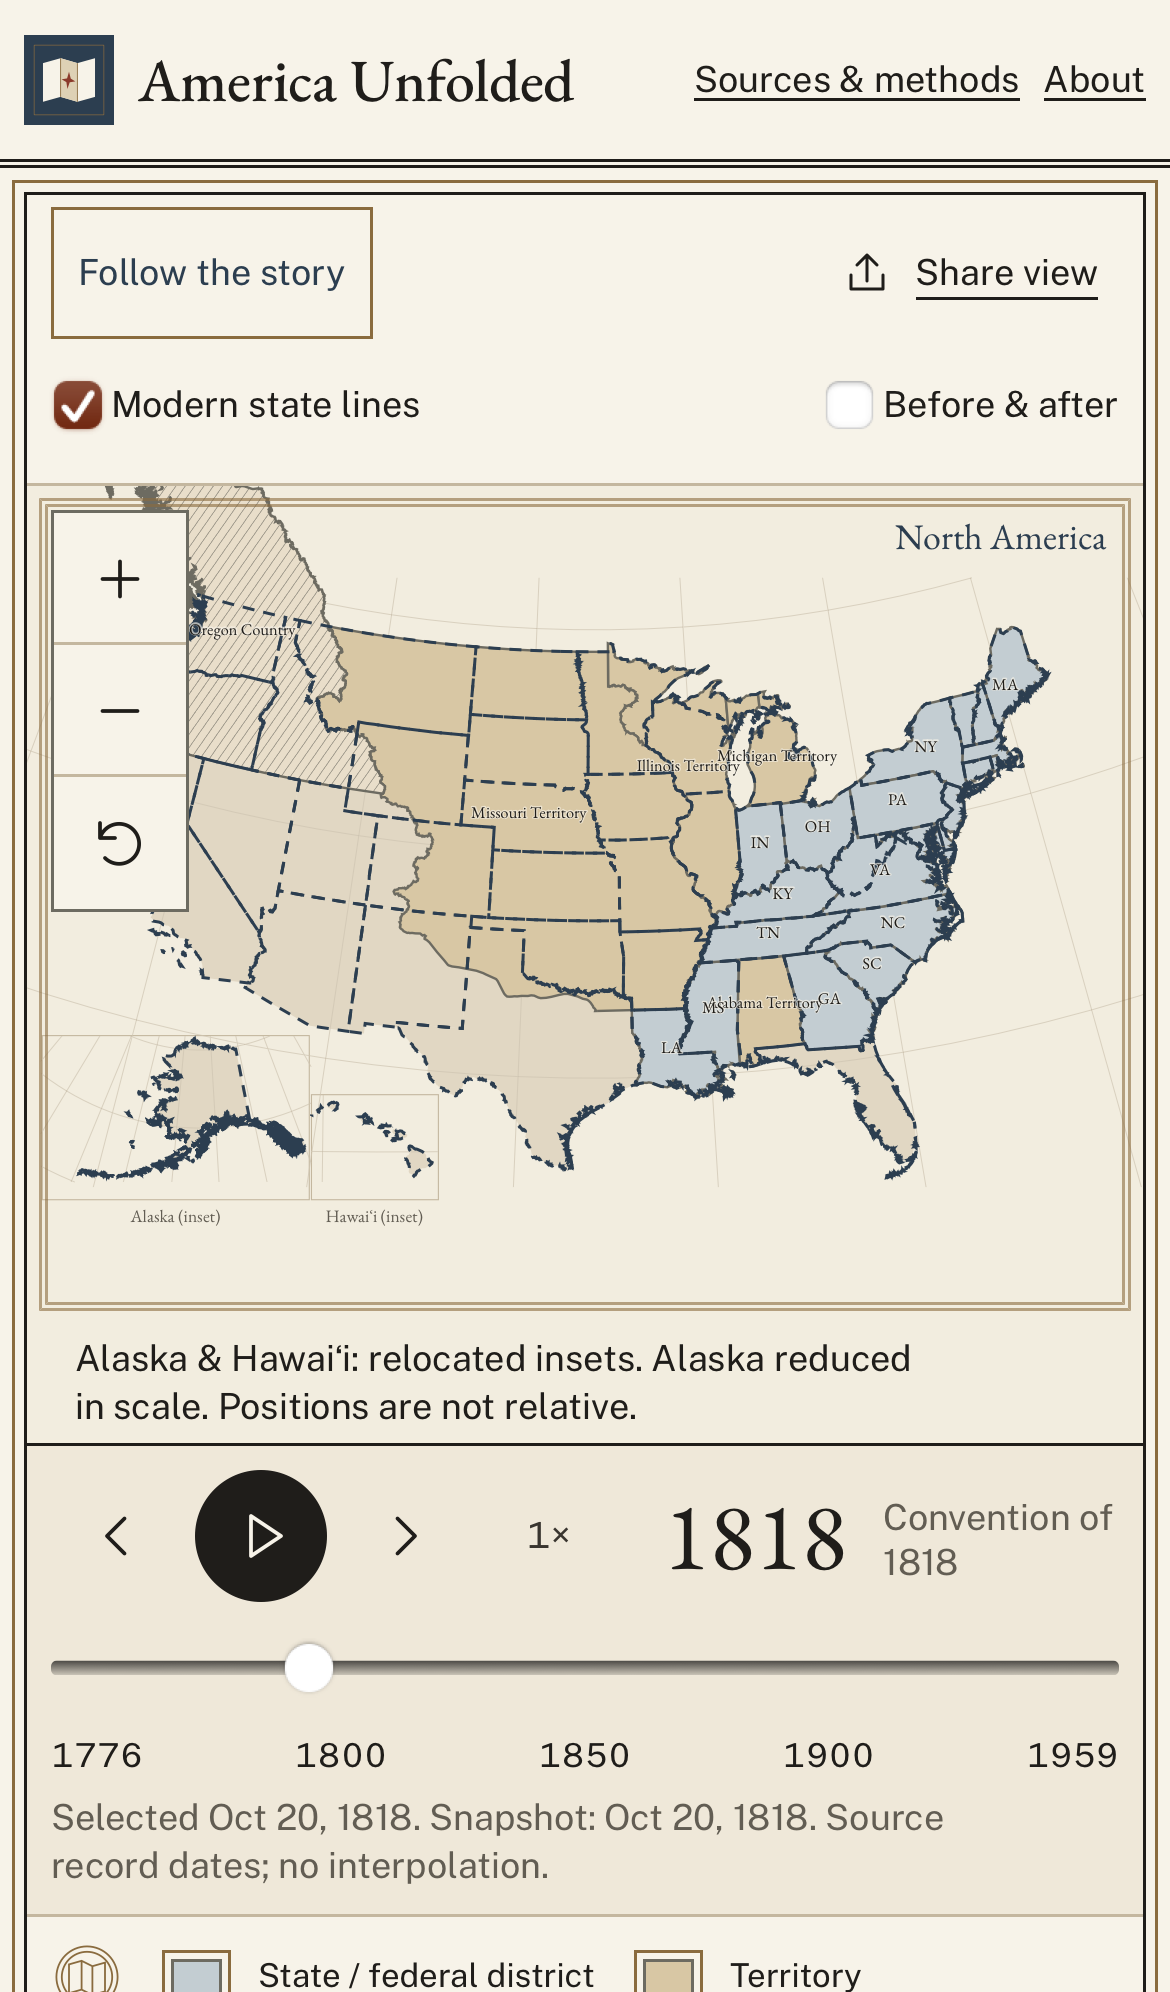
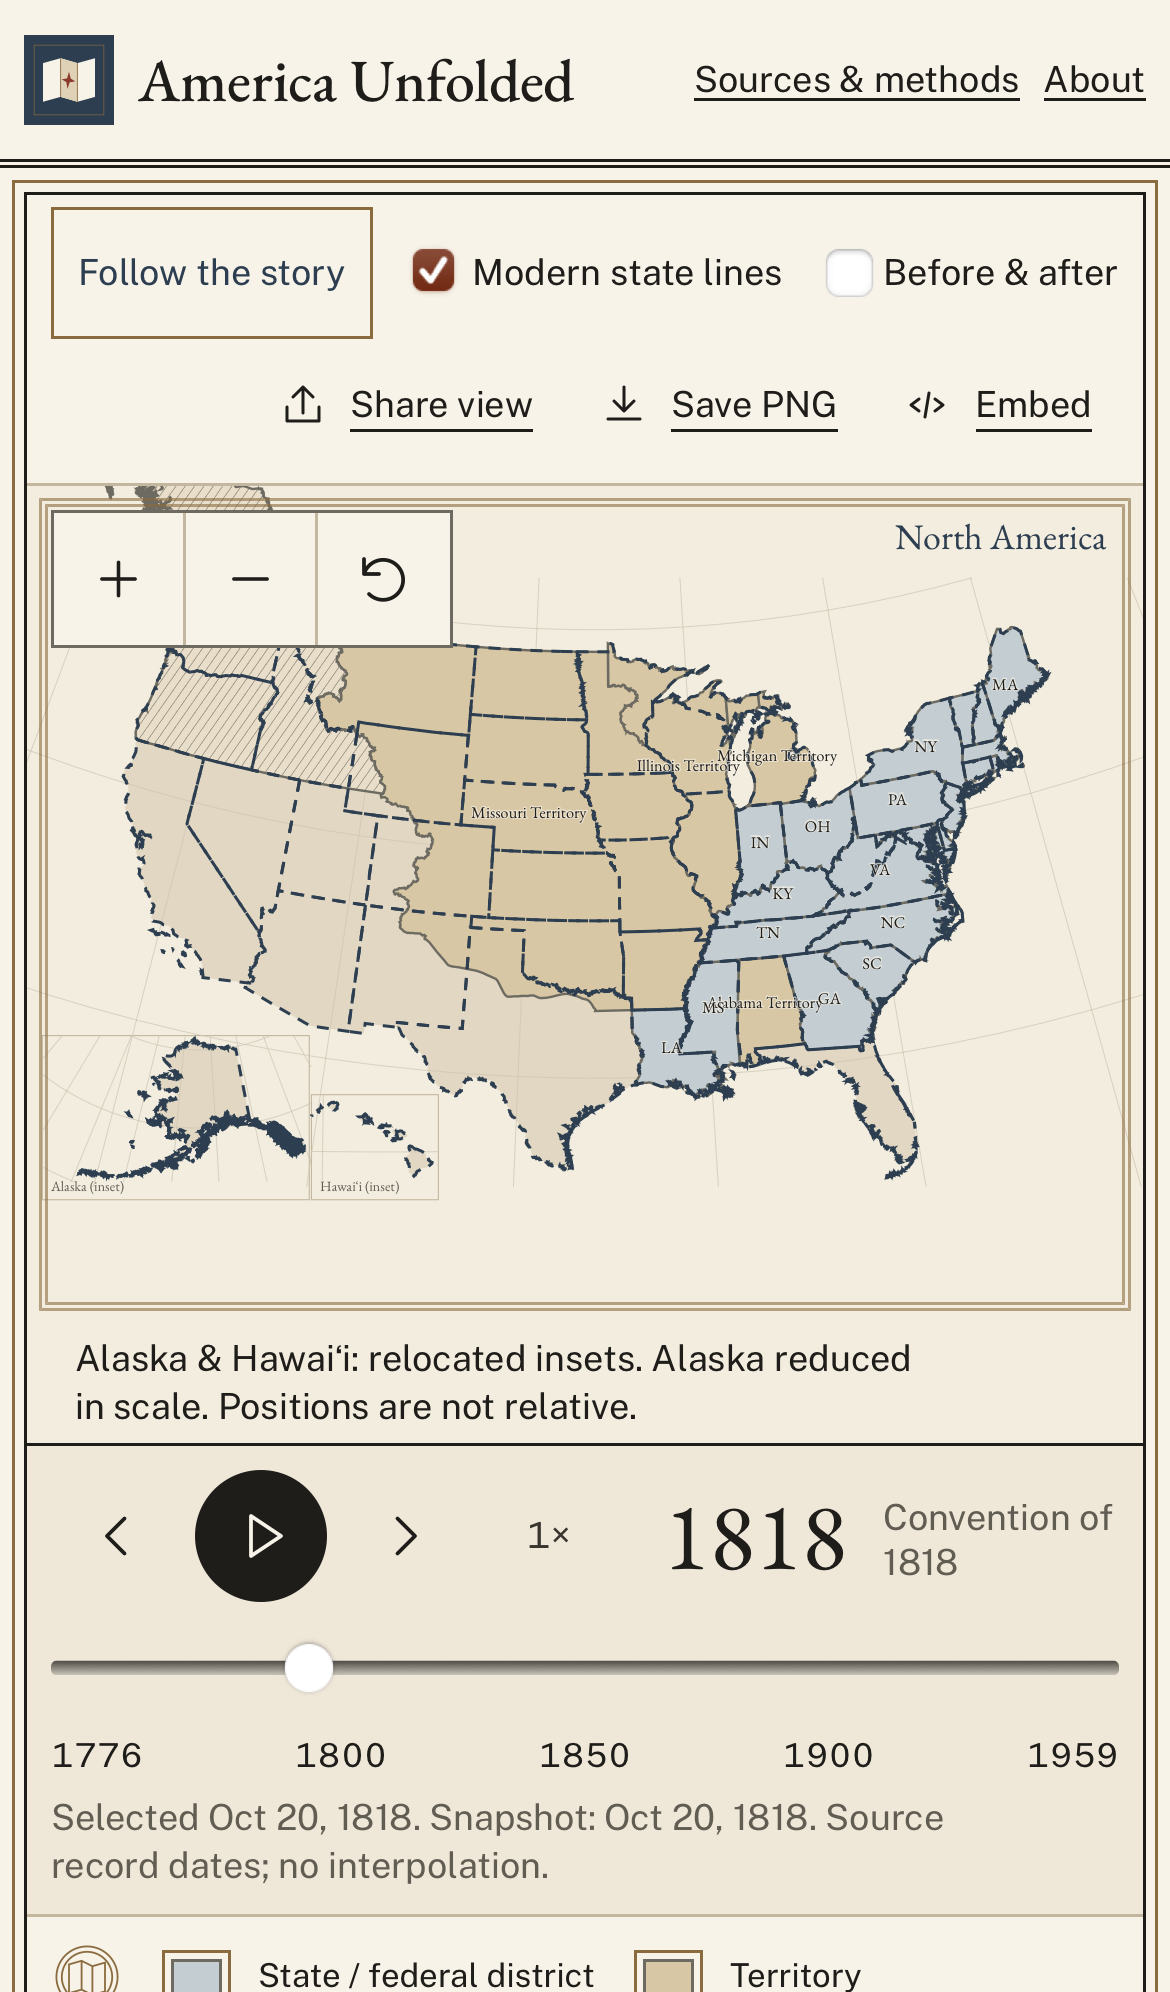
feat: launch polish for social sharing, 1783 landing, PNG export, embed mode, and mobile zoom layout

diff --git a/src/styles/app.css b/src/styles/app.css
@@ -1820,3 +1820,111 @@ dd {
     gap: var(--space-xs);
   }
 }
+
+/* Launch polish: inset labels inside frames, share/export/embed actions, mobile horizontal zoom controls, embed view */
+.inset-guides text.inset-label {
+  text-anchor: start;
+  font-size: 13px;
+}
+.share-actions {
+  display: inline-flex;
+  align-items: center;
+  gap: var(--space-2xs);
+}
+.story-bar {
+  border-top: 0;
+  border-bottom: 1px solid var(--color-rule);
+  gap: var(--space-sm);
+}
+.story-bar-actions {
+  display: inline-flex;
+  align-items: center;
+  gap: var(--space-sm);
+  flex-shrink: 0;
+}
+.back-to-chapter {
+  margin: calc(-1 * var(--space-xs)) 0 var(--space-xs) calc(-1 * var(--space-xs));
+  padding-inline: var(--space-xs);
+  font-size: var(--text-xs);
+  color: var(--color-navy);
+}
+.embed-credit {
+  display: none;
+  margin: 0;
+  padding: var(--space-xs) var(--space-md);
+  border-top: 1px solid var(--color-rule);
+  font-size: var(--text-xs);
+  color: var(--color-muted);
+  background: var(--color-paper);
+}
+.embed-view .masthead,
+.embed-view .event-index,
+.embed-view .footer,
+.embed-view .analytics-consent {
+  display: none;
+}
+.embed-view main {
+  padding-inline: 0;
+  max-width: none;
+}
+.embed-view .atlas {
+  margin-top: 0;
+  outline: none;
+  border: 0;
+}
+.embed-view .embed-credit {
+  display: block;
+}
+@media (min-width: 761px) and (max-width: 1180px) {
+  .atlas-view .map-options {
+    gap: var(--space-xs);
+  }
+  .share-actions button span {
+    font-size: var(--text-xs);
+  }
+}
+@media (max-width: 760px) {
+  .atlas-view .story-bar {
+    order: 0;
+  }
+  .atlas-view .map-options {
+    display: flex;
+    flex-wrap: wrap;
+    align-items: center;
+    justify-content: space-between;
+    gap: 0 var(--space-sm);
+  }
+  .atlas-view .share-actions {
+    margin-left: auto;
+    gap: var(--space-2xs);
+  }
+  .atlas-view .share-actions button {
+    font-size: var(--text-xs);
+    padding: var(--space-2xs) var(--space-xs);
+  }
+  .atlas-view .map-controls {
+    flex-direction: row;
+    top: var(--space-xs);
+    left: var(--space-xs);
+  }
+  .atlas-view .map-controls button {
+    border-bottom: 0;
+    border-right: 1px solid var(--color-rule);
+  }
+  .atlas-view .map-controls button:last-child {
+    border-right: 0;
+  }
+  .empty-history-callout {
+    top: 56px;
+    left: var(--space-xs);
+  }
+}
+@media (max-width: 380px) {
+  .atlas-view .share-actions button span {
+    font-size: 0.6875rem;
+  }
+  .atlas-view .share-actions button {
+    padding: var(--space-2xs);
+    min-width: 40px;
+  }
+}
